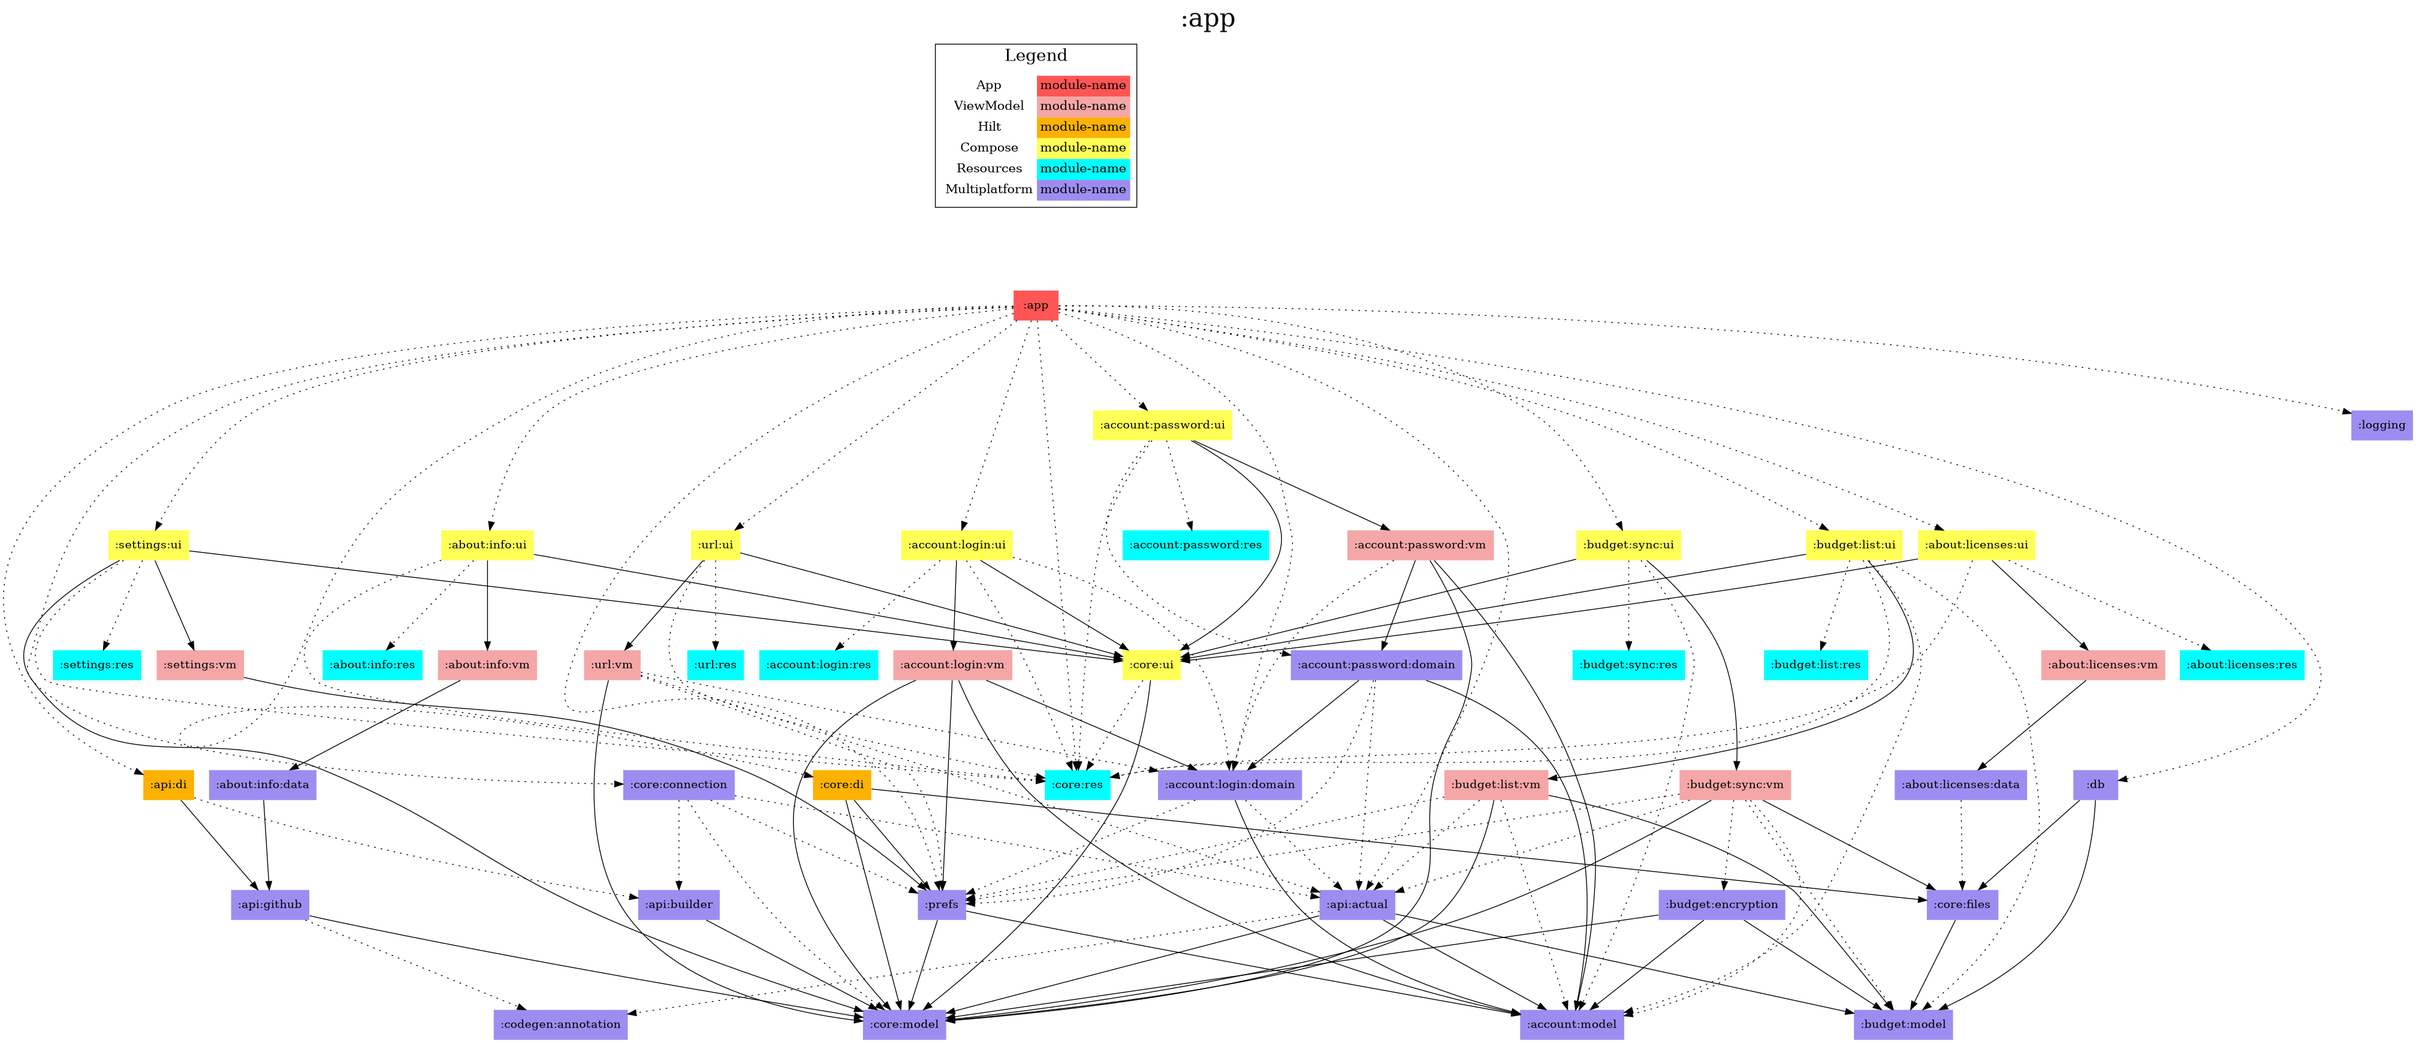
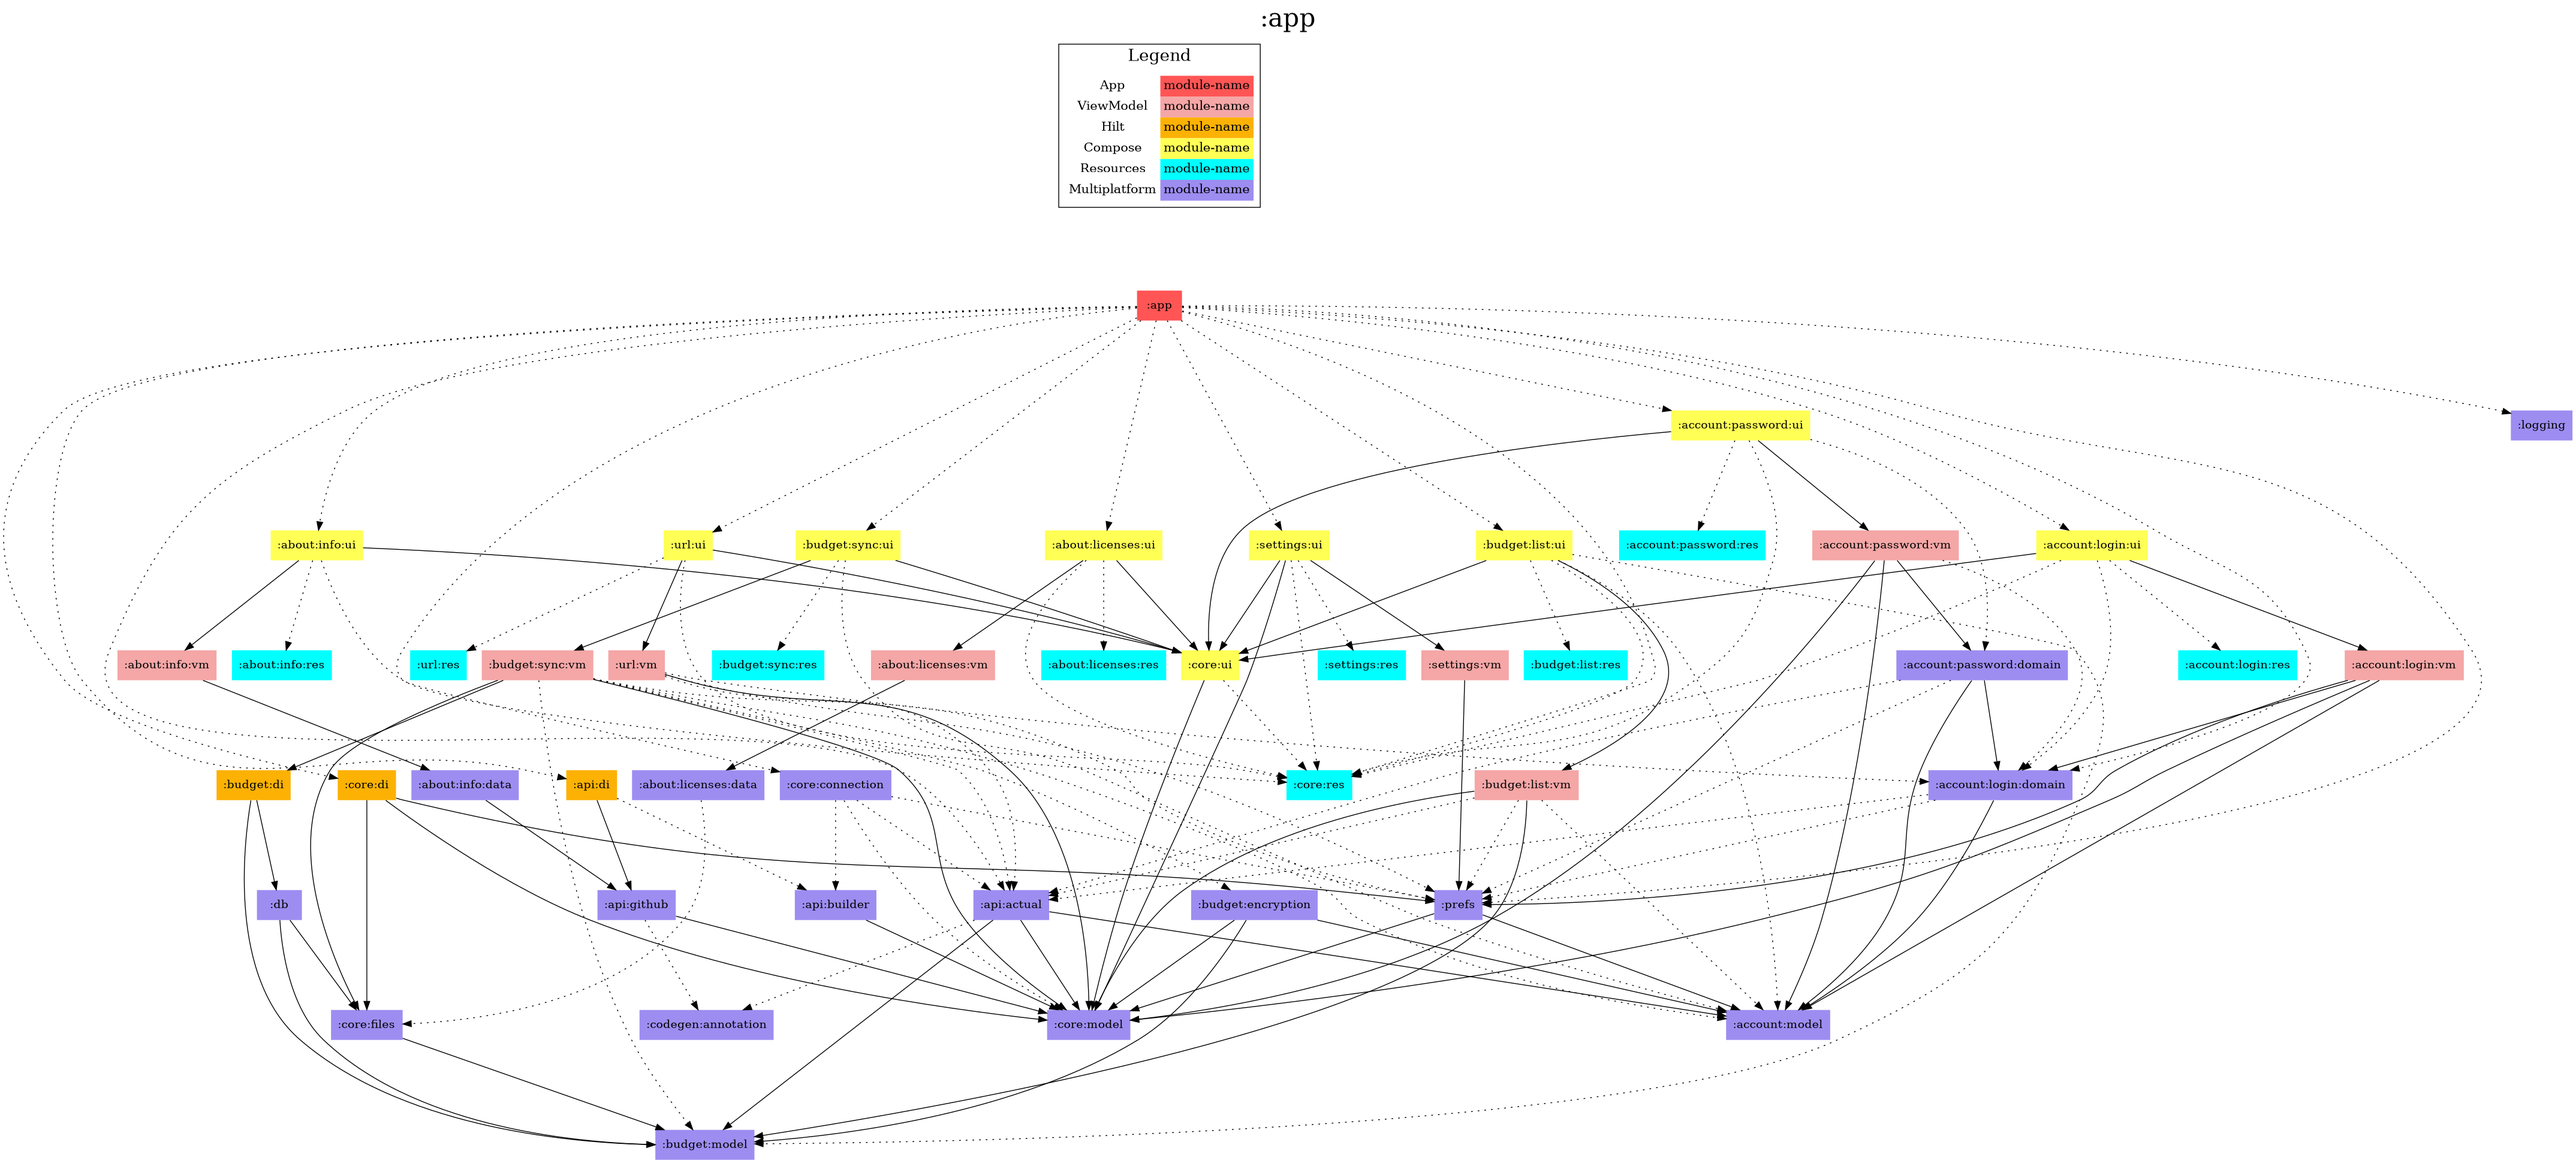
Do the thing

diff --git a/modules/budget/sync/vm/src/main/kotlin/actual/budget/sync/vm/SyncBudgetViewModel.kt b/modules/budget/sync/vm/src/main/kotlin/actual/budget/sync/vm/SyncBudgetViewModel.kt
@@ -4,6 +4,7 @@ import actual.account.model.LoginToken
 import actual.account.model.Password
 import actual.api.model.sync.EncryptMeta
 import actual.api.model.sync.UserFile
+import actual.budget.di.BudgetComponentStateHolder
 import actual.budget.encryption.KeyGenerator
 import actual.budget.model.BudgetId
 import actual.budget.sync.vm.SyncStep.DownloadingDatabase
@@ -53,6 +54,7 @@ class SyncBudgetViewModel @AssistedInject constructor(
   private val keyGenerator: KeyGenerator,
   private val keyFetcher: KeyFetcher,
   private val keyPreferences: KeyPreferences,
+  private val budgetComponents: BudgetComponentStateHolder,
 ) : ViewModel() {
   private val token = inputs.token
   private val budgetId = inputs.budgetId
@@ -237,12 +239,20 @@ class SyncBudgetViewModel @AssistedInject constructor(
   }
 
   private suspend fun importDatabase(path: Path, userFile: UserFile) {
-    val importResult = importer(userFile, path)
-    Logger.i("importResult=$importResult")
+    val result = importer(userFile, path)
+    Logger.i("importResult=$result")
 
-    when (importResult) {
-      is ImportResult.Failure -> setStepState(ValidatingDatabase, SyncStepState.Failed(importResult.toString()))
-      is ImportResult.Success -> setStepState(ValidatingDatabase, SyncStepState.Succeeded)
+    when (result) {
+      is ImportResult.Failure -> {
+        setStepState(ValidatingDatabase, SyncStepState.Failed(result.toString()))
+      }
+
+      is ImportResult.Success -> {
+        val budgetId = result.meta.cloudFileId
+        val component = budgetComponents.update(budgetId)
+        Logger.i("Built new budget component from %s: %s", budgetId, component)
+        setStepState(ValidatingDatabase, SyncStepState.Succeeded)
+      }
     }
   }
 

diff --git a/modules/budget/di/src/main/kotlin/actual/budget/di/BudgetComponent.kt b/modules/budget/di/src/main/kotlin/actual/budget/di/BudgetComponent.kt
@@ -1,0 +1,42 @@
+@file:Suppress("ktlint:standard:parameter-list-wrapping")
+
+package actual.budget.di
+
+import actual.budget.model.BudgetId
+import actual.budget.model.BudgetScope
+import actual.core.files.BudgetFiles
+import actual.db.BudgetDatabase
+import android.content.Context
+import dagger.BindsInstance
+import dagger.Component
+
+@BudgetScope
+@Component(
+  modules = [
+    BudgetDatabaseModule::class,
+  ],
+)
+interface BudgetComponent {
+  val database: BudgetDatabase
+
+  @Component.Builder
+  interface Builder {
+    fun with(@BindsInstance budgetId: BudgetIdAlias): Builder
+    fun with(@BindsInstance context: Context): Builder
+    fun with(@BindsInstance files: BudgetFiles): Builder
+    fun build(): BudgetComponent
+  }
+
+  companion object {
+    fun build(
+      id: BudgetId,
+      context: Context,
+      files: BudgetFiles,
+    ): BudgetComponent = DaggerBudgetComponent
+      .builder()
+      .with(id.value)
+      .with(context)
+      .with(files)
+      .build()
+  }
+}

diff --git a/modules/budget/di/src/main/kotlin/actual/budget/di/BudgetComponentStateHolder.kt b/modules/budget/di/src/main/kotlin/actual/budget/di/BudgetComponentStateHolder.kt
@@ -1,0 +1,25 @@
+package actual.budget.di
+
+import actual.budget.model.BudgetId
+import actual.core.files.BudgetFiles
+import alakazam.kotlin.core.StateHolder
+import android.content.Context
+import kotlinx.coroutines.flow.update
+import javax.inject.Inject
+import javax.inject.Singleton
+
+@Singleton
+class BudgetComponentStateHolder @Inject constructor(
+  private val context: Context,
+  private val files: BudgetFiles,
+) : StateHolder<BudgetComponent?>(initialState = null) {
+  fun require(): BudgetComponent = value ?: error("No budget component loaded!")
+
+  fun clear() = update { null }
+
+  fun update(id: BudgetId): BudgetComponent {
+    val component = BudgetComponent.build(id, context, files)
+    update { component }
+    return component
+  }
+}

diff --git a/build-logic/src/main/kotlin/actual/gradle/ConventionHilt.kt b/build-logic/src/main/kotlin/actual/gradle/ConventionHilt.kt
@@ -1,5 +1,6 @@
 package actual.gradle
 
+import blueprint.core.boolPropertyOrElse
 import blueprint.core.getLibrary
 import blueprint.core.libs
 import com.google.devtools.ksp.gradle.KspGradleSubplugin
@@ -19,9 +20,13 @@ class ConventionHilt : Plugin<Project> {
     val kspTest by configurations
     val testImplementation by configurations
 
+    val applyHiltCompiler = boolPropertyOrElse("actual.hilt.applyCompiler", default = true)
+
     dependencies {
-      ksp(libs.getLibrary("hilt.compiler"))
-      kspTest(libs.getLibrary("hilt.compiler"))
+      if (applyHiltCompiler) {
+        ksp(libs.getLibrary("hilt.compiler"))
+        kspTest(libs.getLibrary("hilt.compiler"))
+      }
       testImplementation(libs.getLibrary("test.hilt"))
     }
   }

diff --git a/modules/budget/di/src/main/kotlin/actual/budget/di/BudgetDatabaseModule.kt b/modules/budget/di/src/main/kotlin/actual/budget/di/BudgetDatabaseModule.kt
@@ -1,0 +1,23 @@
+package actual.budget.di
+
+import actual.budget.model.BudgetId
+import actual.budget.model.BudgetScope
+import actual.core.files.BudgetFiles
+import actual.db.AndroidSqlDriverFactory
+import actual.db.buildDatabase
+import android.content.Context
+import dagger.Module
+import dagger.Provides
+
+@Module
+class BudgetDatabaseModule {
+  @Provides
+  @BudgetScope
+  fun database(
+    id: BudgetIdAlias,
+    context: Context,
+    files: BudgetFiles,
+  ) = buildDatabase(
+    factory = AndroidSqlDriverFactory(BudgetId(id), context, files),
+  )
+}

diff --git a/modules/budget/model/src/commonMain/kotlin/actual/budget/model/BudgetScope.kt b/modules/budget/model/src/commonMain/kotlin/actual/budget/model/BudgetScope.kt
@@ -1,0 +1,7 @@
+package actual.budget.model
+
+import javax.inject.Scope
+
+@Scope
+@Retention(AnnotationRetention.RUNTIME)
+annotation class BudgetScope

diff --git a/modules/budget/di/src/main/kotlin/actual/budget/di/BudgetIdAlias.kt b/modules/budget/di/src/main/kotlin/actual/budget/di/BudgetIdAlias.kt
@@ -1,0 +1,4 @@
+package actual.budget.di
+
+// Because we can't inject a value class directly with Hilt
+internal typealias BudgetIdAlias = String

diff --git a/modules/budget/di/README.md b/modules/budget/di/README.md
@@ -1,0 +1,3 @@
+# budget:di
+
+![modules.png](modules.png)
